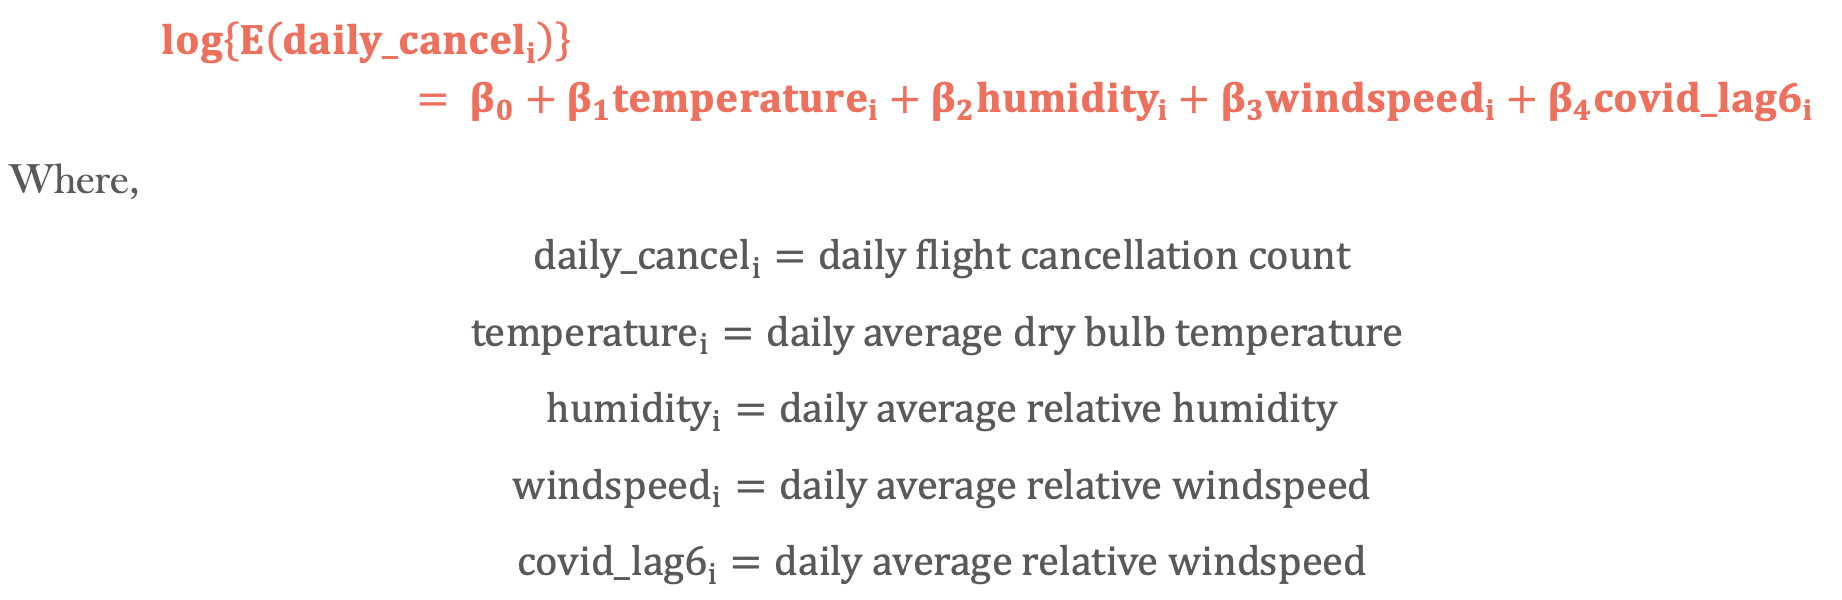
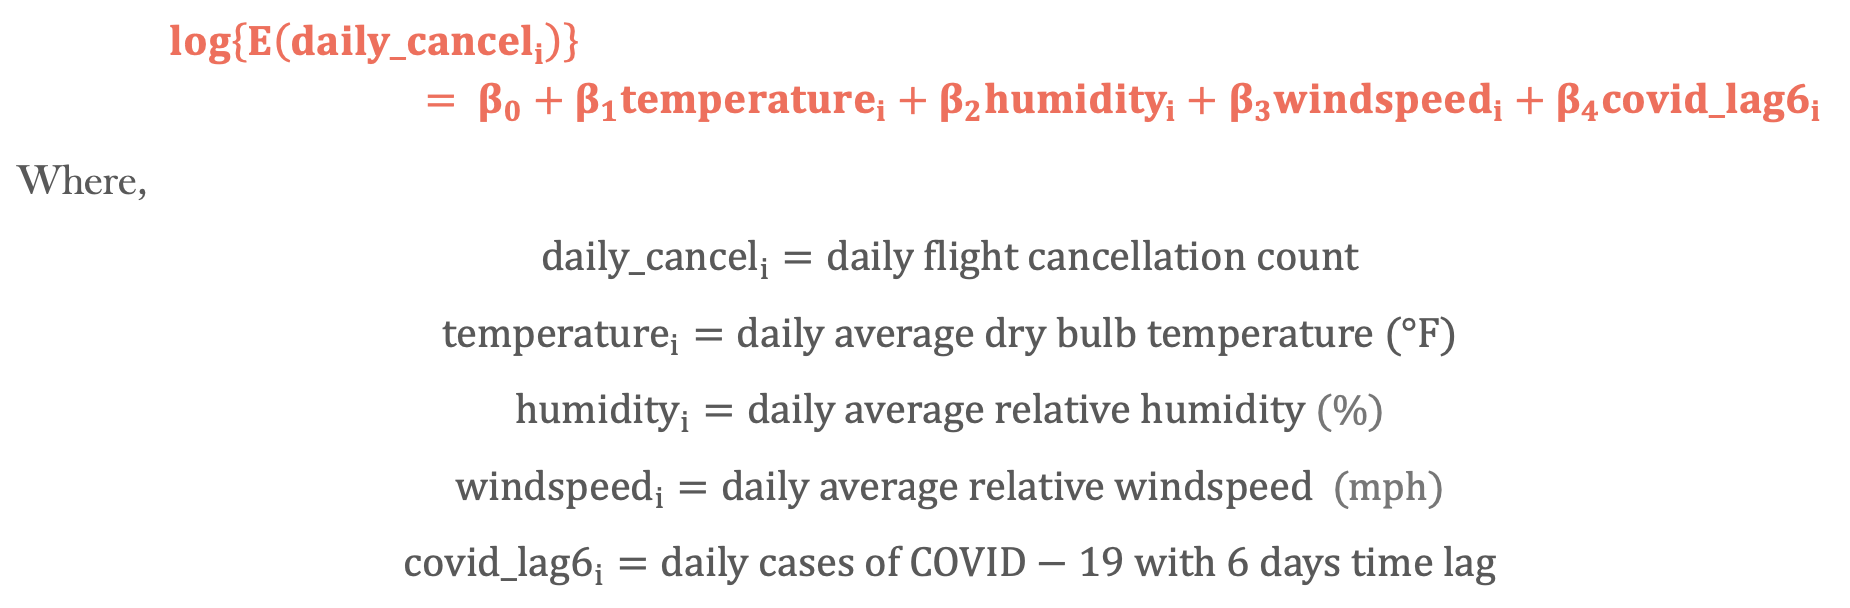
add space in each column of table

diff --git a/web_poisson.html b/web_poisson.html
@@ -439,12 +439,13 @@ are regarded as the independent variables.</p>
 <ul>
 <li><code>daily_cancel</code>: daily flight cancellation count in JFK
 airport</li>
-<li><code>temperature</code>: daily average dry bulb temperature</li>
-<li><code>humidity</code>: daily average relative humidity</li>
-<li><code>windspeed</code>: daily average relative windspeed</li>
-<li><code>covid_case</code>: new daily cases of COVID-19</li>
 <li><code>airline_name</code>: domestic airline</li>
 <li><code>year_month</code>: the date format in “Year Month”</li>
+<li><code>temperature</code>: daily average dry bulb temperature
+(°F)</li>
+<li><code>humidity</code>: daily average relative humidity (%)</li>
+<li><code>windspeed</code>: daily average relative windspeed (mph)</li>
+<li><code>covid_case</code>: new daily cases of COVID-19</li>
 <li><code>covid_lag6</code>: daily cases of COVID-19 with 6 days time
 lag</li>
 </ul>
@@ -665,8 +666,8 @@ scatter_plot &lt;- subplot(cancel_plot, covid_plot, nrows = 2, shareX = TRUE) %&
          showlegend = FALSE)
 
 scatter_plot</code></pre>
-<div id="htmlwidget-6d838d893d03212d5b00" style="width:90%;height:70%;" class="plotly html-widget"></div>
-<script type="application/json" data-for="htmlwidget-6d838d893d03212d5b00">{"x":{"data":[{"x":["2021-11-01","2021-11-02","2021-11-06","2021-11-07","2021-11-08","2021-11-10","2021-11-11","2021-11-12","2021-11-13","2021-11-15","2021-11-16","2021-11-17","2021-11-18","2021-11-21","2021-11-22","2021-11-25","2021-11-26","2021-11-28","2021-11-29","2021-11-30","2021-12-01","2021-12-07","2021-12-08","2021-12-09","2021-12-10","2021-12-11","2021-12-13","2021-12-14","2021-12-15","2021-12-16","2021-12-18","2021-12-20","2021-12-21","2021-12-22","2021-12-23","2021-12-24","2021-12-25","2021-12-26","2021-12-27","2021-12-28","2021-12-29","2021-12-30","2021-12-31","2022-01-01","2022-01-02","2022-01-03","2022-01-04","2022-01-05","2022-01-06","2022-01-07","2022-01-08","2022-01-09","2022-01-10","2022-01-11","2022-01-12","2022-01-13","2022-01-14","2022-01-15","2022-01-16","2022-01-17","2022-01-18","2022-01-19","2022-01-20","2022-01-21","2022-01-22","2022-01-23","2022-01-24","2022-01-25","2022-01-26","2022-01-27","2022-01-28","2022-01-29","2022-01-30","2022-01-31"],"y":[9,2,2,1,2,6,1,3,5,2,2,2,3,1,1,3,2,1,3,1,2,3,2,2,4,4,3,1,2,2,3,1,2,2,8,19,30,35,27,19,22,38,29,39,54,49,28,6,16,127,11,8,9,5,5,3,2,6,57,15,6,4,17,21,5,3,2,3,2,2,52,333,206,33],"mode":"lines+markers","text":["Date: 2021-11-01<br />Cancellation Count: 9","Date: 2021-11-02<br />Cancellation Count: 2","Date: 2021-11-06<br />Cancellation Count: 2","Date: 2021-11-07<br />Cancellation Count: 1","Date: 2021-11-08<br />Cancellation Count: 2","Date: 2021-11-10<br />Cancellation Count: 6","Date: 2021-11-11<br />Cancellation Count: 1","Date: 2021-11-12<br />Cancellation Count: 3","Date: 2021-11-13<br />Cancellation Count: 5","Date: 2021-11-15<br />Cancellation Count: 2","Date: 2021-11-16<br />Cancellation Count: 2","Date: 2021-11-17<br />Cancellation Count: 2","Date: 2021-11-18<br />Cancellation Count: 3","Date: 2021-11-21<br />Cancellation Count: 1","Date: 2021-11-22<br />Cancellation Count: 1","Date: 2021-11-25<br />Cancellation Count: 3","Date: 2021-11-26<br />Cancellation Count: 2","Date: 2021-11-28<br />Cancellation Count: 1","Date: 2021-11-29<br />Cancellation Count: 3","Date: 2021-11-30<br />Cancellation Count: 1","Date: 2021-12-01<br />Cancellation Count: 2","Date: 2021-12-07<br />Cancellation Count: 3","Date: 2021-12-08<br />Cancellation Count: 2","Date: 2021-12-09<br />Cancellation Count: 2","Date: 2021-12-10<br />Cancellation Count: 4","Date: 2021-12-11<br />Cancellation Count: 4","Date: 2021-12-13<br />Cancellation Count: 3","Date: 2021-12-14<br />Cancellation Count: 1","Date: 2021-12-15<br />Cancellation Count: 2","Date: 2021-12-16<br />Cancellation Count: 2","Date: 2021-12-18<br />Cancellation Count: 3","Date: 2021-12-20<br />Cancellation Count: 1","Date: 2021-12-21<br />Cancellation Count: 2","Date: 2021-12-22<br />Cancellation Count: 2","Date: 2021-12-23<br />Cancellation Count: 8","Date: 2021-12-24<br />Cancellation Count: 19","Date: 2021-12-25<br />Cancellation Count: 30","Date: 2021-12-26<br />Cancellation Count: 35","Date: 2021-12-27<br />Cancellation Count: 27","Date: 2021-12-28<br />Cancellation Count: 19","Date: 2021-12-29<br />Cancellation Count: 22","Date: 2021-12-30<br />Cancellation Count: 38","Date: 2021-12-31<br />Cancellation Count: 29","Date: 2022-01-01<br />Cancellation Count: 39","Date: 2022-01-02<br />Cancellation Count: 54","Date: 2022-01-03<br />Cancellation Count: 49","Date: 2022-01-04<br />Cancellation Count: 28","Date: 2022-01-05<br />Cancellation Count: 6","Date: 2022-01-06<br />Cancellation Count: 16","Date: 2022-01-07<br />Cancellation Count: 127","Date: 2022-01-08<br />Cancellation Count: 11","Date: 2022-01-09<br />Cancellation Count: 8","Date: 2022-01-10<br />Cancellation Count: 9","Date: 2022-01-11<br />Cancellation Count: 5","Date: 2022-01-12<br />Cancellation Count: 5","Date: 2022-01-13<br />Cancellation Count: 3","Date: 2022-01-14<br />Cancellation Count: 2","Date: 2022-01-15<br />Cancellation Count: 6","Date: 2022-01-16<br />Cancellation Count: 57","Date: 2022-01-17<br />Cancellation Count: 15","Date: 2022-01-18<br />Cancellation Count: 6","Date: 2022-01-19<br />Cancellation Count: 4","Date: 2022-01-20<br />Cancellation Count: 17","Date: 2022-01-21<br />Cancellation Count: 21","Date: 2022-01-22<br />Cancellation Count: 5","Date: 2022-01-23<br />Cancellation Count: 3","Date: 2022-01-24<br />Cancellation Count: 2","Date: 2022-01-25<br />Cancellation Count: 3","Date: 2022-01-26<br />Cancellation Count: 2","Date: 2022-01-27<br />Cancellation Count: 2","Date: 2022-01-28<br />Cancellation Count: 52","Date: 2022-01-29<br />Cancellation Count: 333","Date: 2022-01-30<br />Cancellation Count: 206","Date: 2022-01-31<br />Cancellation Count: 33"],"hoverinfo":["text","text","text","text","text","text","text","text","text","text","text","text","text","text","text","text","text","text","text","text","text","text","text","text","text","text","text","text","text","text","text","text","text","text","text","text","text","text","text","text","text","text","text","text","text","text","text","text","text","text","text","text","text","text","text","text","text","text","text","text","text","text","text","text","text","text","text","text","text","text","text","text","text","text"],"type":"scatter","marker":{"color":"rgba(31,119,180,0.498)","line":{"color":"rgba(31,119,180,1)"}},"error_y":{"color":"rgba(31,119,180,0.498)"},"error_x":{"color":"rgba(31,119,180,0.498)"},"line":{"color":"rgba(31,119,180,0.498)"},"xaxis":"x","yaxis":"y","frame":null},{"x":["2021-11-01","2021-11-02","2021-11-06","2021-11-07","2021-11-08","2021-11-10","2021-11-11","2021-11-12","2021-11-13","2021-11-15","2021-11-16","2021-11-17","2021-11-18","2021-11-21","2021-11-22","2021-11-25","2021-11-26","2021-11-28","2021-11-29","2021-11-30","2021-12-01","2021-12-07","2021-12-08","2021-12-09","2021-12-10","2021-12-11","2021-12-13","2021-12-14","2021-12-15","2021-12-16","2021-12-18","2021-12-20","2021-12-21","2021-12-22","2021-12-23","2021-12-24","2021-12-25","2021-12-26","2021-12-27","2021-12-28","2021-12-29","2021-12-30","2021-12-31","2022-01-01","2022-01-02","2022-01-03","2022-01-04","2022-01-05","2022-01-06","2022-01-07","2022-01-08","2022-01-09","2022-01-10","2022-01-11","2022-01-12","2022-01-13","2022-01-14","2022-01-15","2022-01-16","2022-01-17","2022-01-18","2022-01-19","2022-01-20","2022-01-21","2022-01-22","2022-01-23","2022-01-24","2022-01-25","2022-01-26","2022-01-27","2022-01-28","2022-01-29","2022-01-30","2022-01-31"],"y":[780,806,508,542,1135,1049,875,1028,614,1263,1272,1329,1310,840,1528,531,1171,1060,2328,2006,2180,2922,3136,3022,3089,2159,7529,10875,13167,13866,9949,27953,30410,31401,31822,17475,7796,22991,51247,49688,50506,47451,29136,12063,32514,54958,49209,40241,36371,23206,16192,14352,25033,18537,18441,16096,13290,6759,6893,9828,10921,9030,7043,5797,3632,3397,6017,4763,4199,3634,2725,512,1425,3112],"mode":"lines+markers","text":["Date: 2021-11-01<br />COVID Cases Count: 780","Date: 2021-11-02<br />COVID Cases Count: 806","Date: 2021-11-06<br />COVID Cases Count: 508","Date: 2021-11-07<br />COVID Cases Count: 542","Date: 2021-11-08<br />COVID Cases Count: 1135","Date: 2021-11-10<br />COVID Cases Count: 1049","Date: 2021-11-11<br />COVID Cases Count: 875","Date: 2021-11-12<br />COVID Cases Count: 1028","Date: 2021-11-13<br />COVID Cases Count: 614","Date: 2021-11-15<br />COVID Cases Count: 1263","Date: 2021-11-16<br />COVID Cases Count: 1272","Date: 2021-11-17<br />COVID Cases Count: 1329","Date: 2021-11-18<br />COVID Cases Count: 1310","Date: 2021-11-21<br />COVID Cases Count: 840","Date: 2021-11-22<br />COVID Cases Count: 1528","Date: 2021-11-25<br />COVID Cases Count: 531","Date: 2021-11-26<br />COVID Cases Count: 1171","Date: 2021-11-28<br />COVID Cases Count: 1060","Date: 2021-11-29<br />COVID Cases Count: 2328","Date: 2021-11-30<br />COVID Cases Count: 2006","Date: 2021-12-01<br />COVID Cases Count: 2180","Date: 2021-12-07<br />COVID Cases Count: 2922","Date: 2021-12-08<br />COVID Cases Count: 3136","Date: 2021-12-09<br />COVID Cases Count: 3022","Date: 2021-12-10<br />COVID Cases Count: 3089","Date: 2021-12-11<br />COVID Cases Count: 2159","Date: 2021-12-13<br />COVID Cases Count: 7529","Date: 2021-12-14<br />COVID Cases Count: 10875","Date: 2021-12-15<br />COVID Cases Count: 13167","Date: 2021-12-16<br />COVID Cases Count: 13866","Date: 2021-12-18<br />COVID Cases Count: 9949","Date: 2021-12-20<br />COVID Cases Count: 27953","Date: 2021-12-21<br />COVID Cases Count: 30410","Date: 2021-12-22<br />COVID Cases Count: 31401","Date: 2021-12-23<br />COVID Cases Count: 31822","Date: 2021-12-24<br />COVID Cases Count: 17475","Date: 2021-12-25<br />COVID Cases Count: 7796","Date: 2021-12-26<br />COVID Cases Count: 22991","Date: 2021-12-27<br />COVID Cases Count: 51247","Date: 2021-12-28<br />COVID Cases Count: 49688","Date: 2021-12-29<br />COVID Cases Count: 50506","Date: 2021-12-30<br />COVID Cases Count: 47451","Date: 2021-12-31<br />COVID Cases Count: 29136","Date: 2022-01-01<br />COVID Cases Count: 12063","Date: 2022-01-02<br />COVID Cases Count: 32514","Date: 2022-01-03<br />COVID Cases Count: 54958","Date: 2022-01-04<br />COVID Cases Count: 49209","Date: 2022-01-05<br />COVID Cases Count: 40241","Date: 2022-01-06<br />COVID Cases Count: 36371","Date: 2022-01-07<br />COVID Cases Count: 23206","Date: 2022-01-08<br />COVID Cases Count: 16192","Date: 2022-01-09<br />COVID Cases Count: 14352","Date: 2022-01-10<br />COVID Cases Count: 25033","Date: 2022-01-11<br />COVID Cases Count: 18537","Date: 2022-01-12<br />COVID Cases Count: 18441","Date: 2022-01-13<br />COVID Cases Count: 16096","Date: 2022-01-14<br />COVID Cases Count: 13290","Date: 2022-01-15<br />COVID Cases Count: 6759","Date: 2022-01-16<br />COVID Cases Count: 6893","Date: 2022-01-17<br />COVID Cases Count: 9828","Date: 2022-01-18<br />COVID Cases Count: 10921","Date: 2022-01-19<br />COVID Cases Count: 9030","Date: 2022-01-20<br />COVID Cases Count: 7043","Date: 2022-01-21<br />COVID Cases Count: 5797","Date: 2022-01-22<br />COVID Cases Count: 3632","Date: 2022-01-23<br />COVID Cases Count: 3397","Date: 2022-01-24<br />COVID Cases Count: 6017","Date: 2022-01-25<br />COVID Cases Count: 4763","Date: 2022-01-26<br />COVID Cases Count: 4199","Date: 2022-01-27<br />COVID Cases Count: 3634","Date: 2022-01-28<br />COVID Cases Count: 2725","Date: 2022-01-29<br />COVID Cases Count: 512","Date: 2022-01-30<br />COVID Cases Count: 1425","Date: 2022-01-31<br />COVID Cases Count: 3112"],"hoverinfo":["text","text","text","text","text","text","text","text","text","text","text","text","text","text","text","text","text","text","text","text","text","text","text","text","text","text","text","text","text","text","text","text","text","text","text","text","text","text","text","text","text","text","text","text","text","text","text","text","text","text","text","text","text","text","text","text","text","text","text","text","text","text","text","text","text","text","text","text","text","text","text","text","text","text"],"type":"scatter","marker":{"color":"rgba(255,127,14,0.498)","line":{"color":"rgba(255,127,14,1)"}},"error_y":{"color":"rgba(255,127,14,0.498)"},"error_x":{"color":"rgba(255,127,14,0.498)"},"line":{"color":"rgba(255,127,14,0.498)"},"xaxis":"x","yaxis":"y2","frame":null}],"layout":{"xaxis":{"domain":[0,1],"automargin":true,"title":"Date","anchor":"y2"},"yaxis2":{"domain":[0,0.48],"automargin":true,"anchor":"x"},"yaxis":{"domain":[0.52,1],"automargin":true,"anchor":"x"},"annotations":[{"x":0.1,"y":0.904,"text":"Daily Flight Cncellations","showarrow":false,"xref":"paper","yref":"paper"},{"x":0.1,"y":0.384,"text":"Daily COVID Cases","showarrow":false,"xref":"paper","yref":"paper"}],"shapes":[],"images":[],"margin":{"b":40,"l":60,"t":25,"r":10},"hovermode":"closest","showlegend":false,"title":{"text":"Time Trend of Daily Cancellations vs. Daily COVID Cases"}},"attrs":{"109034f127ca5":{"x":{},"y":{},"mode":"lines+markers","text":{},"hoverinfo":"text","alpha":0.5,"alpha_stroke":1,"sizes":[10,100],"spans":[1,20],"type":"scatter"},"1090346b55d31":{"x":{},"y":{},"mode":"lines+markers","text":{},"hoverinfo":"text","alpha":0.5,"alpha_stroke":1,"sizes":[10,100],"spans":[1,20],"type":"scatter"}},"source":"A","config":{"modeBarButtonsToAdd":["hoverclosest","hovercompare"],"showSendToCloud":false},"highlight":{"on":"plotly_click","persistent":false,"dynamic":false,"selectize":false,"opacityDim":0.2,"selected":{"opacity":1},"debounce":0},"subplot":true,"shinyEvents":["plotly_hover","plotly_click","plotly_selected","plotly_relayout","plotly_brushed","plotly_brushing","plotly_clickannotation","plotly_doubleclick","plotly_deselect","plotly_afterplot","plotly_sunburstclick"],"base_url":"https://plot.ly"},"evals":[],"jsHooks":[]}</script>
+<div id="htmlwidget-281a73cb696c0cfcd4ed" style="width:90%;height:70%;" class="plotly html-widget"></div>
+<script type="application/json" data-for="htmlwidget-281a73cb696c0cfcd4ed">{"x":{"data":[{"x":["2021-11-01","2021-11-02","2021-11-06","2021-11-07","2021-11-08","2021-11-10","2021-11-11","2021-11-12","2021-11-13","2021-11-15","2021-11-16","2021-11-17","2021-11-18","2021-11-21","2021-11-22","2021-11-25","2021-11-26","2021-11-28","2021-11-29","2021-11-30","2021-12-01","2021-12-07","2021-12-08","2021-12-09","2021-12-10","2021-12-11","2021-12-13","2021-12-14","2021-12-15","2021-12-16","2021-12-18","2021-12-20","2021-12-21","2021-12-22","2021-12-23","2021-12-24","2021-12-25","2021-12-26","2021-12-27","2021-12-28","2021-12-29","2021-12-30","2021-12-31","2022-01-01","2022-01-02","2022-01-03","2022-01-04","2022-01-05","2022-01-06","2022-01-07","2022-01-08","2022-01-09","2022-01-10","2022-01-11","2022-01-12","2022-01-13","2022-01-14","2022-01-15","2022-01-16","2022-01-17","2022-01-18","2022-01-19","2022-01-20","2022-01-21","2022-01-22","2022-01-23","2022-01-24","2022-01-25","2022-01-26","2022-01-27","2022-01-28","2022-01-29","2022-01-30","2022-01-31"],"y":[9,2,2,1,2,6,1,3,5,2,2,2,3,1,1,3,2,1,3,1,2,3,2,2,4,4,3,1,2,2,3,1,2,2,8,19,30,35,27,19,22,38,29,39,54,49,28,6,16,127,11,8,9,5,5,3,2,6,57,15,6,4,17,21,5,3,2,3,2,2,52,333,206,33],"mode":"lines+markers","text":["Date: 2021-11-01<br />Cancellation Count: 9","Date: 2021-11-02<br />Cancellation Count: 2","Date: 2021-11-06<br />Cancellation Count: 2","Date: 2021-11-07<br />Cancellation Count: 1","Date: 2021-11-08<br />Cancellation Count: 2","Date: 2021-11-10<br />Cancellation Count: 6","Date: 2021-11-11<br />Cancellation Count: 1","Date: 2021-11-12<br />Cancellation Count: 3","Date: 2021-11-13<br />Cancellation Count: 5","Date: 2021-11-15<br />Cancellation Count: 2","Date: 2021-11-16<br />Cancellation Count: 2","Date: 2021-11-17<br />Cancellation Count: 2","Date: 2021-11-18<br />Cancellation Count: 3","Date: 2021-11-21<br />Cancellation Count: 1","Date: 2021-11-22<br />Cancellation Count: 1","Date: 2021-11-25<br />Cancellation Count: 3","Date: 2021-11-26<br />Cancellation Count: 2","Date: 2021-11-28<br />Cancellation Count: 1","Date: 2021-11-29<br />Cancellation Count: 3","Date: 2021-11-30<br />Cancellation Count: 1","Date: 2021-12-01<br />Cancellation Count: 2","Date: 2021-12-07<br />Cancellation Count: 3","Date: 2021-12-08<br />Cancellation Count: 2","Date: 2021-12-09<br />Cancellation Count: 2","Date: 2021-12-10<br />Cancellation Count: 4","Date: 2021-12-11<br />Cancellation Count: 4","Date: 2021-12-13<br />Cancellation Count: 3","Date: 2021-12-14<br />Cancellation Count: 1","Date: 2021-12-15<br />Cancellation Count: 2","Date: 2021-12-16<br />Cancellation Count: 2","Date: 2021-12-18<br />Cancellation Count: 3","Date: 2021-12-20<br />Cancellation Count: 1","Date: 2021-12-21<br />Cancellation Count: 2","Date: 2021-12-22<br />Cancellation Count: 2","Date: 2021-12-23<br />Cancellation Count: 8","Date: 2021-12-24<br />Cancellation Count: 19","Date: 2021-12-25<br />Cancellation Count: 30","Date: 2021-12-26<br />Cancellation Count: 35","Date: 2021-12-27<br />Cancellation Count: 27","Date: 2021-12-28<br />Cancellation Count: 19","Date: 2021-12-29<br />Cancellation Count: 22","Date: 2021-12-30<br />Cancellation Count: 38","Date: 2021-12-31<br />Cancellation Count: 29","Date: 2022-01-01<br />Cancellation Count: 39","Date: 2022-01-02<br />Cancellation Count: 54","Date: 2022-01-03<br />Cancellation Count: 49","Date: 2022-01-04<br />Cancellation Count: 28","Date: 2022-01-05<br />Cancellation Count: 6","Date: 2022-01-06<br />Cancellation Count: 16","Date: 2022-01-07<br />Cancellation Count: 127","Date: 2022-01-08<br />Cancellation Count: 11","Date: 2022-01-09<br />Cancellation Count: 8","Date: 2022-01-10<br />Cancellation Count: 9","Date: 2022-01-11<br />Cancellation Count: 5","Date: 2022-01-12<br />Cancellation Count: 5","Date: 2022-01-13<br />Cancellation Count: 3","Date: 2022-01-14<br />Cancellation Count: 2","Date: 2022-01-15<br />Cancellation Count: 6","Date: 2022-01-16<br />Cancellation Count: 57","Date: 2022-01-17<br />Cancellation Count: 15","Date: 2022-01-18<br />Cancellation Count: 6","Date: 2022-01-19<br />Cancellation Count: 4","Date: 2022-01-20<br />Cancellation Count: 17","Date: 2022-01-21<br />Cancellation Count: 21","Date: 2022-01-22<br />Cancellation Count: 5","Date: 2022-01-23<br />Cancellation Count: 3","Date: 2022-01-24<br />Cancellation Count: 2","Date: 2022-01-25<br />Cancellation Count: 3","Date: 2022-01-26<br />Cancellation Count: 2","Date: 2022-01-27<br />Cancellation Count: 2","Date: 2022-01-28<br />Cancellation Count: 52","Date: 2022-01-29<br />Cancellation Count: 333","Date: 2022-01-30<br />Cancellation Count: 206","Date: 2022-01-31<br />Cancellation Count: 33"],"hoverinfo":["text","text","text","text","text","text","text","text","text","text","text","text","text","text","text","text","text","text","text","text","text","text","text","text","text","text","text","text","text","text","text","text","text","text","text","text","text","text","text","text","text","text","text","text","text","text","text","text","text","text","text","text","text","text","text","text","text","text","text","text","text","text","text","text","text","text","text","text","text","text","text","text","text","text"],"type":"scatter","marker":{"color":"rgba(31,119,180,0.498)","line":{"color":"rgba(31,119,180,1)"}},"error_y":{"color":"rgba(31,119,180,0.498)"},"error_x":{"color":"rgba(31,119,180,0.498)"},"line":{"color":"rgba(31,119,180,0.498)"},"xaxis":"x","yaxis":"y","frame":null},{"x":["2021-11-01","2021-11-02","2021-11-06","2021-11-07","2021-11-08","2021-11-10","2021-11-11","2021-11-12","2021-11-13","2021-11-15","2021-11-16","2021-11-17","2021-11-18","2021-11-21","2021-11-22","2021-11-25","2021-11-26","2021-11-28","2021-11-29","2021-11-30","2021-12-01","2021-12-07","2021-12-08","2021-12-09","2021-12-10","2021-12-11","2021-12-13","2021-12-14","2021-12-15","2021-12-16","2021-12-18","2021-12-20","2021-12-21","2021-12-22","2021-12-23","2021-12-24","2021-12-25","2021-12-26","2021-12-27","2021-12-28","2021-12-29","2021-12-30","2021-12-31","2022-01-01","2022-01-02","2022-01-03","2022-01-04","2022-01-05","2022-01-06","2022-01-07","2022-01-08","2022-01-09","2022-01-10","2022-01-11","2022-01-12","2022-01-13","2022-01-14","2022-01-15","2022-01-16","2022-01-17","2022-01-18","2022-01-19","2022-01-20","2022-01-21","2022-01-22","2022-01-23","2022-01-24","2022-01-25","2022-01-26","2022-01-27","2022-01-28","2022-01-29","2022-01-30","2022-01-31"],"y":[780,806,508,542,1135,1049,875,1028,614,1263,1272,1329,1310,840,1528,531,1171,1060,2328,2006,2180,2922,3136,3022,3089,2159,7529,10875,13167,13866,9949,27953,30410,31401,31822,17475,7796,22991,51247,49688,50506,47451,29136,12063,32514,54958,49209,40241,36371,23206,16192,14352,25033,18537,18441,16096,13290,6759,6893,9828,10921,9030,7043,5797,3632,3397,6017,4763,4199,3634,2725,512,1425,3112],"mode":"lines+markers","text":["Date: 2021-11-01<br />COVID Cases Count: 780","Date: 2021-11-02<br />COVID Cases Count: 806","Date: 2021-11-06<br />COVID Cases Count: 508","Date: 2021-11-07<br />COVID Cases Count: 542","Date: 2021-11-08<br />COVID Cases Count: 1135","Date: 2021-11-10<br />COVID Cases Count: 1049","Date: 2021-11-11<br />COVID Cases Count: 875","Date: 2021-11-12<br />COVID Cases Count: 1028","Date: 2021-11-13<br />COVID Cases Count: 614","Date: 2021-11-15<br />COVID Cases Count: 1263","Date: 2021-11-16<br />COVID Cases Count: 1272","Date: 2021-11-17<br />COVID Cases Count: 1329","Date: 2021-11-18<br />COVID Cases Count: 1310","Date: 2021-11-21<br />COVID Cases Count: 840","Date: 2021-11-22<br />COVID Cases Count: 1528","Date: 2021-11-25<br />COVID Cases Count: 531","Date: 2021-11-26<br />COVID Cases Count: 1171","Date: 2021-11-28<br />COVID Cases Count: 1060","Date: 2021-11-29<br />COVID Cases Count: 2328","Date: 2021-11-30<br />COVID Cases Count: 2006","Date: 2021-12-01<br />COVID Cases Count: 2180","Date: 2021-12-07<br />COVID Cases Count: 2922","Date: 2021-12-08<br />COVID Cases Count: 3136","Date: 2021-12-09<br />COVID Cases Count: 3022","Date: 2021-12-10<br />COVID Cases Count: 3089","Date: 2021-12-11<br />COVID Cases Count: 2159","Date: 2021-12-13<br />COVID Cases Count: 7529","Date: 2021-12-14<br />COVID Cases Count: 10875","Date: 2021-12-15<br />COVID Cases Count: 13167","Date: 2021-12-16<br />COVID Cases Count: 13866","Date: 2021-12-18<br />COVID Cases Count: 9949","Date: 2021-12-20<br />COVID Cases Count: 27953","Date: 2021-12-21<br />COVID Cases Count: 30410","Date: 2021-12-22<br />COVID Cases Count: 31401","Date: 2021-12-23<br />COVID Cases Count: 31822","Date: 2021-12-24<br />COVID Cases Count: 17475","Date: 2021-12-25<br />COVID Cases Count: 7796","Date: 2021-12-26<br />COVID Cases Count: 22991","Date: 2021-12-27<br />COVID Cases Count: 51247","Date: 2021-12-28<br />COVID Cases Count: 49688","Date: 2021-12-29<br />COVID Cases Count: 50506","Date: 2021-12-30<br />COVID Cases Count: 47451","Date: 2021-12-31<br />COVID Cases Count: 29136","Date: 2022-01-01<br />COVID Cases Count: 12063","Date: 2022-01-02<br />COVID Cases Count: 32514","Date: 2022-01-03<br />COVID Cases Count: 54958","Date: 2022-01-04<br />COVID Cases Count: 49209","Date: 2022-01-05<br />COVID Cases Count: 40241","Date: 2022-01-06<br />COVID Cases Count: 36371","Date: 2022-01-07<br />COVID Cases Count: 23206","Date: 2022-01-08<br />COVID Cases Count: 16192","Date: 2022-01-09<br />COVID Cases Count: 14352","Date: 2022-01-10<br />COVID Cases Count: 25033","Date: 2022-01-11<br />COVID Cases Count: 18537","Date: 2022-01-12<br />COVID Cases Count: 18441","Date: 2022-01-13<br />COVID Cases Count: 16096","Date: 2022-01-14<br />COVID Cases Count: 13290","Date: 2022-01-15<br />COVID Cases Count: 6759","Date: 2022-01-16<br />COVID Cases Count: 6893","Date: 2022-01-17<br />COVID Cases Count: 9828","Date: 2022-01-18<br />COVID Cases Count: 10921","Date: 2022-01-19<br />COVID Cases Count: 9030","Date: 2022-01-20<br />COVID Cases Count: 7043","Date: 2022-01-21<br />COVID Cases Count: 5797","Date: 2022-01-22<br />COVID Cases Count: 3632","Date: 2022-01-23<br />COVID Cases Count: 3397","Date: 2022-01-24<br />COVID Cases Count: 6017","Date: 2022-01-25<br />COVID Cases Count: 4763","Date: 2022-01-26<br />COVID Cases Count: 4199","Date: 2022-01-27<br />COVID Cases Count: 3634","Date: 2022-01-28<br />COVID Cases Count: 2725","Date: 2022-01-29<br />COVID Cases Count: 512","Date: 2022-01-30<br />COVID Cases Count: 1425","Date: 2022-01-31<br />COVID Cases Count: 3112"],"hoverinfo":["text","text","text","text","text","text","text","text","text","text","text","text","text","text","text","text","text","text","text","text","text","text","text","text","text","text","text","text","text","text","text","text","text","text","text","text","text","text","text","text","text","text","text","text","text","text","text","text","text","text","text","text","text","text","text","text","text","text","text","text","text","text","text","text","text","text","text","text","text","text","text","text","text","text"],"type":"scatter","marker":{"color":"rgba(255,127,14,0.498)","line":{"color":"rgba(255,127,14,1)"}},"error_y":{"color":"rgba(255,127,14,0.498)"},"error_x":{"color":"rgba(255,127,14,0.498)"},"line":{"color":"rgba(255,127,14,0.498)"},"xaxis":"x","yaxis":"y2","frame":null}],"layout":{"xaxis":{"domain":[0,1],"automargin":true,"title":"Date","anchor":"y2"},"yaxis2":{"domain":[0,0.48],"automargin":true,"anchor":"x"},"yaxis":{"domain":[0.52,1],"automargin":true,"anchor":"x"},"annotations":[{"x":0.1,"y":0.904,"text":"Daily Flight Cncellations","showarrow":false,"xref":"paper","yref":"paper"},{"x":0.1,"y":0.384,"text":"Daily COVID Cases","showarrow":false,"xref":"paper","yref":"paper"}],"shapes":[],"images":[],"margin":{"b":40,"l":60,"t":25,"r":10},"hovermode":"closest","showlegend":false,"title":{"text":"Time Trend of Daily Cancellations vs. Daily COVID Cases"}},"attrs":{"10b194244936f":{"x":{},"y":{},"mode":"lines+markers","text":{},"hoverinfo":"text","alpha":0.5,"alpha_stroke":1,"sizes":[10,100],"spans":[1,20],"type":"scatter"},"10b19242b7e66":{"x":{},"y":{},"mode":"lines+markers","text":{},"hoverinfo":"text","alpha":0.5,"alpha_stroke":1,"sizes":[10,100],"spans":[1,20],"type":"scatter"}},"source":"A","config":{"modeBarButtonsToAdd":["hoverclosest","hovercompare"],"showSendToCloud":false},"highlight":{"on":"plotly_click","persistent":false,"dynamic":false,"selectize":false,"opacityDim":0.2,"selected":{"opacity":1},"debounce":0},"subplot":true,"shinyEvents":["plotly_hover","plotly_click","plotly_selected","plotly_relayout","plotly_brushed","plotly_brushing","plotly_clickannotation","plotly_doubleclick","plotly_deselect","plotly_afterplot","plotly_sunburstclick"],"base_url":"https://plot.ly"},"evals":[],"jsHooks":[]}</script>
 <p>We used the lag selection criteria and Akaike’s information criterion
 (AIC) to select 6 days as the optimal time lag. Then, we constructed a
 new variable named <code>covid_lag6</code>, equivalent to the value of
